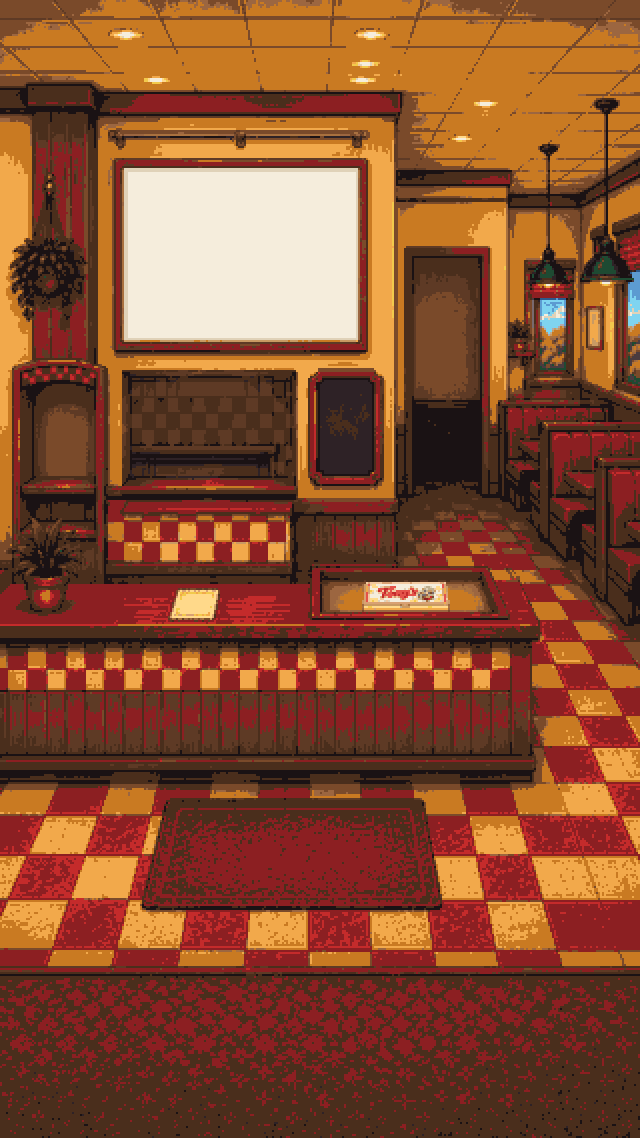
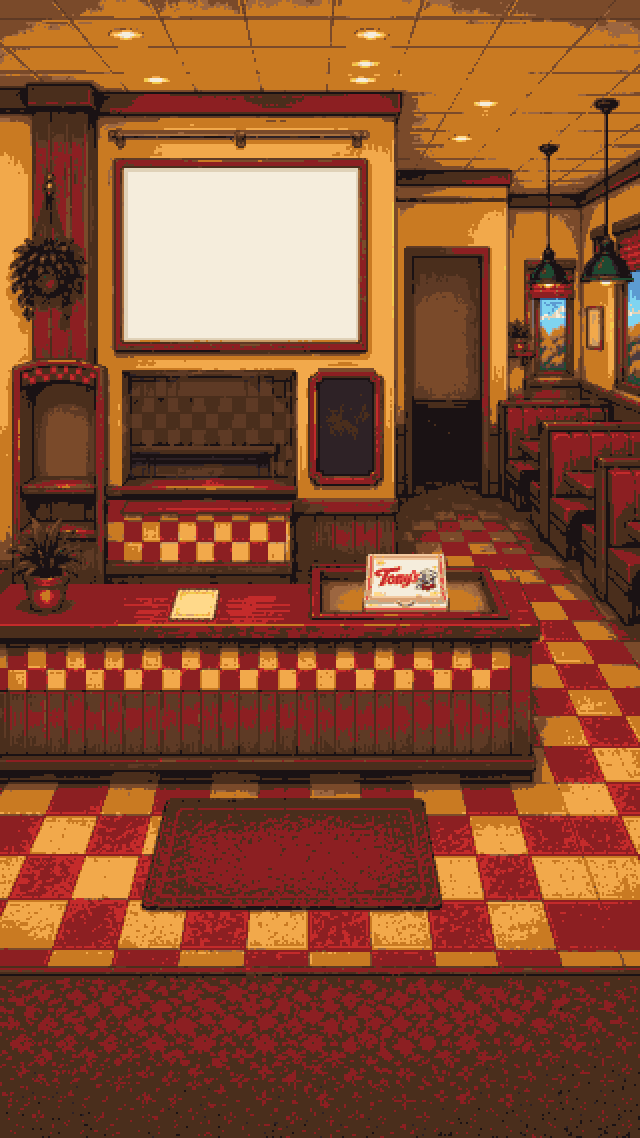
Take the squarer pizza box: it fills the slot the geometry describes
The previous candidate was drawn at 2.88:1 — a genuinely thin box — which
letterboxed to 44x15 and sat entirely inside the tray recess. Acceptable,
but not what objects.ts describes: the 30-unit height "puts its lid at
y 276, above the tray's back edge — which is what a box on a tray looks
like from this angle."

This one is 1.52:1 against the slot's 1.47, fills 44x29, rises above the
rim as specified, and is markedly more legible at real size — which matters
because this is the object a manager taps at the most exciting moment in
the product. Verified the same way: no partial alpha, no off-palette pixel,
no pure black or white, resting on its bottom row, centred to the pixel.

The flat candidate is kept rather than deleted, renamed with the _source_
prefix that process-art.ts skips, so the surviving candidate is unambiguous
rather than winning on alphabetical order.

Changed region(s): [[0.5625, 0.4613, 0.7188, 0.5536]]

diff --git a/docs/CHECKPOINT.md b/docs/CHECKPOINT.md
@@ -106,11 +106,20 @@ slugs): no partial alpha, no off-palette pixel, no pure black or white, resting 
 bottom row, horizontally centred to the pixel. Composited into the real shell at
 `TRAY_BOX` it sits inside the tray recess rather than floating.
 
-**It occupies 44 × 15 of its 30-unit slot**, because a pizza box really is thin and the
-art's natural aspect is 2.88:1. That is recorded rather than corrected: the box rests on
-the bottom row so it is not floating, the glow is alpha-derived so the empty rows never
-light, and the tap target is the tray Door's own rect rather than `TRAY_BOX`. Changing
-the geometry to match would be a room change, not an art swap.
+**It fills 44 × 29 of its 30-unit slot**, and getting there took a third candidate. The
+second was drawn at a 2.88:1 aspect — a genuinely thin pizza box — which letterboxed to
+44 × 15 and sat entirely *inside* the tray recess. That was acceptable but not what the
+geometry describes: `objects.ts` says the 30-unit height *"puts its lid at y 276, above
+the tray's back edge — which is what a box on a tray looks like from this angle."* The
+squarer candidate at 1.52:1 does exactly that, and is markedly more legible at real size
+— which matters, because this is the object a manager taps at the most exciting moment
+in the product. Composited into the real shell it rises above the rim as specified and
+rests on its bottom row.
+
+The flat candidate is **kept, not deleted** (`AUTONOMY.md §5`), renamed to
+`_source_object_box_owned_flat_rejected.png` — the `_` prefix is how `process-art.ts`
+skips a file, so the surviving candidate is unambiguous rather than winning on
+alphabetical order.
 
 **The style failure is worth carrying forward.** The box's first attempt came back as
 smooth vector art because the reference attached to the prompt was an upscaled, soft
